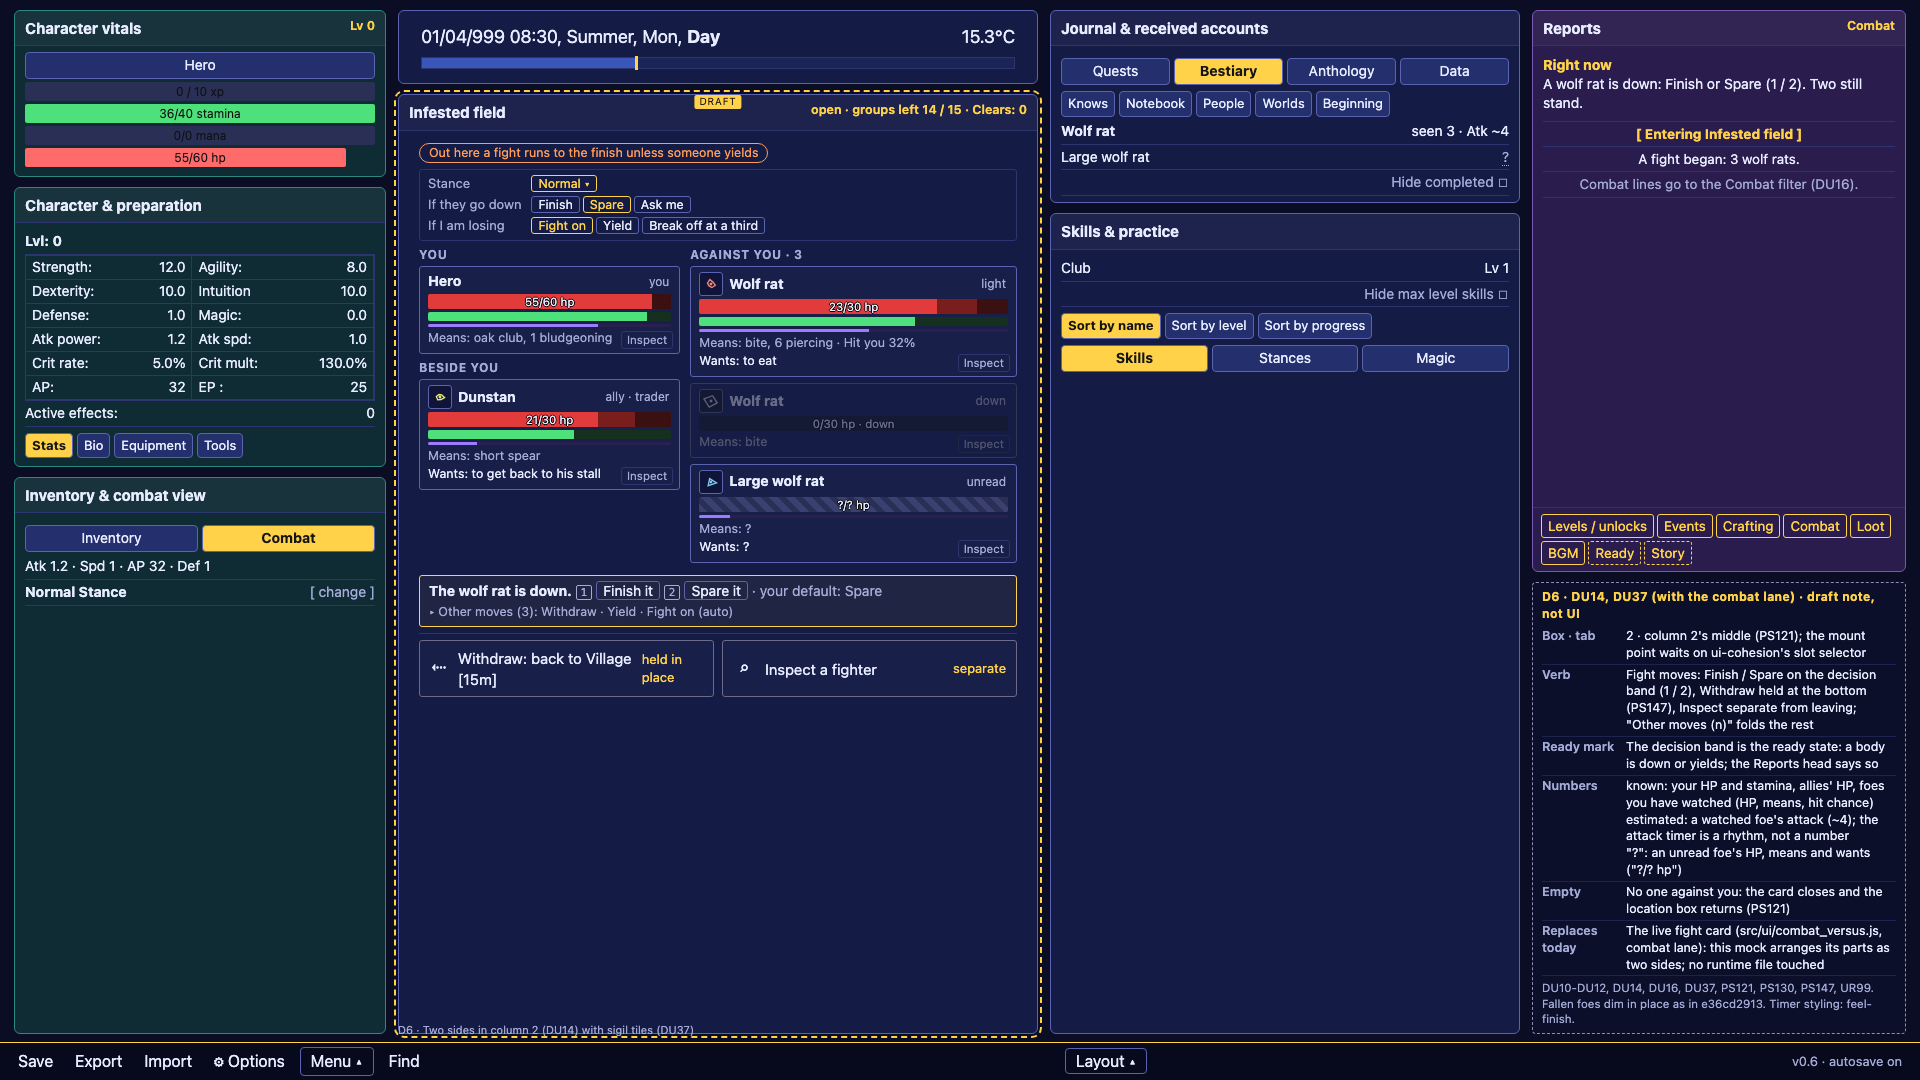
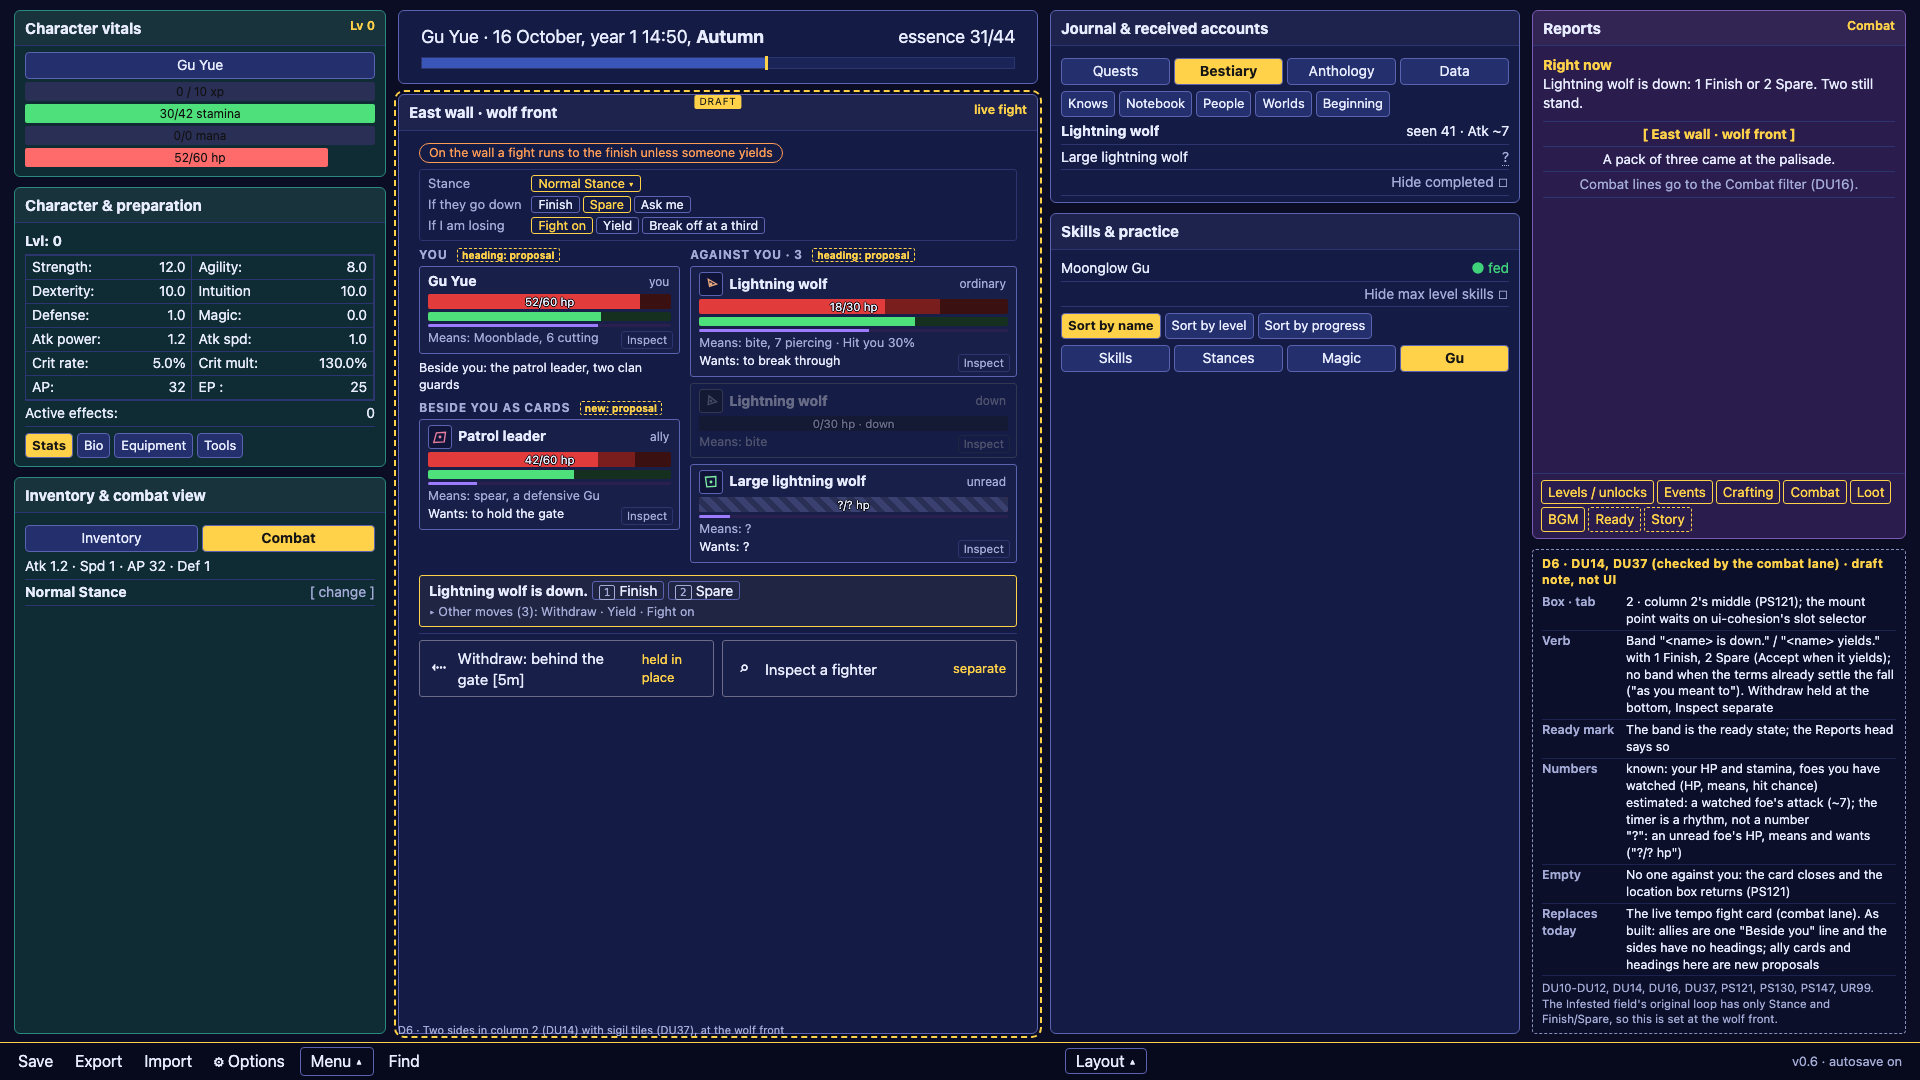
D6 matches the live fight card (combat lane review): set at the wolf front's tempo fight, band reads '<name> is down.' with 1 Finish / 2 Spare, Normal Stance, allies as the Beside you line, ally cards and side headings marked as proposals

diff --git a/prototypes/ui-drafts-2026-11-15/index.html b/prototypes/ui-drafts-2026-11-15/index.html
@@ -113,6 +113,8 @@ body.shot #pick, body.shot .note { display:none; }
 .inspect { position:absolute; right:6px; bottom:4px; font-size:11.5px; color:var(--muted); border:1px solid var(--quiet); border-radius:3px; padding:0 5px; }
 .band { border:1px solid var(--gold); border-radius:3px; padding:6px 9px; background:rgba(255,210,74,.06); font-size:14px; }
 .band .key { font:11px ui-monospace,monospace; border:1px solid var(--muted); border-radius:2px; padding:0 4px; margin-right:4px; color:var(--muted); }
+.newtag { font-style:normal; font-size:10px; color:var(--gold); border:1px dashed var(--gold); border-radius:2px; padding:0 4px; margin-left:6px; text-transform:none; letter-spacing:0; }
+.versus-allies { font-size:12.5px; margin:0 0 6px; }
 .held { display:flex; gap:8px; border-top:1px solid var(--quiet); padding-top:6px; margin-top:auto; } .held .verb { flex:1; margin:0; font-size:15px; } .c3 .head-run .bar { height:19px; }
 #dtitle { position:fixed; left:398px; bottom:42px; font-size:11px; color:var(--muted); }
 /* Compare view: the draft beside today's screen of the same life. */
@@ -254,25 +256,26 @@ const DRAFTS = {
       today: 'A description line and the patrol report; merit paid in four places (AT41)', codes: 'PS120, PS130, PS143, DSG11; waits on PS2 and PS3 (one wolf owner, one merit writer). Phases from ri_wolf_tide.js; counts are examples.'}),
   },
   d6: {
-    title: 'D6 · Two sides in column 2 (DU14) with sigil tiles (DU37)', today: 'ri-fang-yuan-wild-gu.png',
-    c1: C1({hp: '55/60 hp', st: '36/40 stamina', invTab: 'Combat', combat: row('Atk 1.2 · Spd 1 · AP 32 · Def 1') + row('<b>Normal Stance</b>', '<span class="m">[ change ]</span>')}),
-    c2: [VILLAGE_TIME('01/04/999 08:30, Summer, Mon, <b>Day</b>', '15.3°C', '36%'),
-      draft('Infested field', 'open · groups left 14 / 15 · Clears: 0', '<div class="fight2">' +
-        '<span class="stakes">Out here a fight runs to the finish unless someone yields</span>' +
-        h('div', 'approach2', '<span class="m">Stance</span><span><span class="act on">Normal ▾</span></span><span class="m">If they go down</span><span><span class="act">Finish</span><span class="act on">Spare</span><span class="act">Ask me</span></span><span class="m">If I am losing</span><span><span class="act on">Fight on</span><span class="act">Yield</span><span class="act">Break off at a third</span></span>') +
-        '<div class="versus"><section class="versus-side--you"><h5>You</h5>' + vcard({name: 'Hero', kind: 'you', hp: 92, hpT: '55/60 hp', st: 90, means: 'Means: oak club, 1 bludgeoning', glyph: false, timer: 70}) +
-          '<h5>Beside you</h5>' + vcard({name: 'Dunstan', kind: 'ally · trader', hp: 70, lost: 85, hpT: '21/30 hp', st: 60, means: 'Means: short spear', wants: 'to get back to his stall', timer: 20}) + '</section>' +
-        '<section><h5>Against you · 3</h5>' + vcard({name: 'Wolf rat', kind: 'light', hp: 77, lost: 90, hpT: '23/30 hp', st: 70, means: 'Means: bite, 6 piercing · Hit you 32%', wants: 'to eat', timer: 55}) +
-          vcard({name: 'Wolf rat ', kind: 'down', hp: 0, hpT: '0/30 hp · down', means: 'Means: bite', down: true}) +
-          vcard({name: 'Large wolf rat', kind: 'unread', hp: 100, hpT: '?/? hp', means: 'Means: ?', wants: '?', timer: 10}) + '</section></div>' +
-        h('div', 'band', '<b>The wolf rat is down.</b> <span class="key">1</span><span class="act">Finish it</span> <span class="key">2</span><span class="act">Spare it</span> <span class="m">· your default: Spare</span><div class="m" style="font-size:12.5px;margin-top:3px">▸ Other moves (3): Withdraw · Yield · Fight on (auto)</div>') +
-        '<div class="held">' + verb('⇠', 'Withdraw: back to Village [15m]', 'held in place') + verb('⌕', 'Inspect a fighter', 'separate') + '</div></div>', 'grow')].join(''),
-    c3: JOURNAL('Bestiary', row('<b>Wolf rat</b>', 'seen 3 · Atk ~4') + row('Large wolf rat', unk('?', 'Not watched fighting yet.'))) + SKILLS('Skills', [], row('Club', 'Lv 1')),
-    c4: REPORTS('<b class="g">Right now</b><br>A wolf rat is down: Finish or Spare (1 / 2). Two still stand.', ['[ Entering Infested field ]', 'A fight began: 3 wolf rats.', '<span class="m">Combat lines go to the Combat filter (DU16).</span>'], 'Combat') + spec({code: 'D6 · DU14, DU37 (with the combat lane)',
-      box: '2 · column 2\'s middle (PS121); the mount point waits on ui-cohesion\'s slot selector', verb: 'Fight moves: Finish / Spare on the decision band (1 / 2), Withdraw held at the bottom (PS147), Inspect separate from leaving; "Other moves (n)" folds the rest',
-      ready: 'The decision band is the ready state: a body is down or yields; the Reports head says so', known: 'your HP and stamina, allies\' HP, foes you have watched (HP, means, hit chance)',
-      est: 'a watched foe\'s attack (~4); the attack timer is a rhythm, not a number', unk: 'an unread foe\'s HP, means and wants ("?/? hp")', empty: 'No one against you: the card closes and the location box returns (PS121)',
-      today: 'The live fight card (src/ui/combat_versus.js, combat lane): this mock arranges its parts as two sides; no runtime file touched', codes: 'DU10-DU12, DU14, DU16, DU37, PS121, PS130, PS147, UR99. Fallen foes dim in place as in e36cd2913. Timer styling: feel-finish.'}),
+    title: 'D6 · Two sides in column 2 (DU14) with sigil tiles (DU37), at the wolf front', today: 'ri-fang-yuan-wild-gu.png',
+    c1: C1({name: 'Gu Yue', hp: '52/60 hp', st: '30/42 stamina', invTab: 'Combat', combat: row('Atk 1.2 · Spd 1 · AP 32 · Def 1') + row('<b>Normal Stance</b>', '<span class="m">[ change ]</span>')}),
+    c2: [VILLAGE_TIME('Gu Yue · 16 October, year 1 14:50, <b>Autumn</b>', 'essence 31/44', '58%'),
+      draft('East wall · wolf front', 'live fight', '<div class="fight2">' +
+        '<span class="stakes">On the wall a fight runs to the finish unless someone yields</span>' +
+        h('div', 'approach2', '<span class="m">Stance</span><span><span class="act on">Normal Stance ▾</span></span><span class="m">If they go down</span><span><span class="act">Finish</span><span class="act on">Spare</span><span class="act">Ask me</span></span><span class="m">If I am losing</span><span><span class="act on">Fight on</span><span class="act">Yield</span><span class="act">Break off at a third</span></span>') +
+        '<div class="versus"><section class="versus-side--you"><h5>You <i class="newtag">heading: proposal</i></h5>' + vcard({name: 'Gu Yue', kind: 'you', hp: 87, hpT: '52/60 hp', st: 71, means: 'Means: Moonblade, 6 cutting', glyph: false, timer: 70}) +
+          '<p class="versus-allies">Beside you: the patrol leader, two clan guards</p>' +
+          '<h5>Beside you as cards <i class="newtag">new: proposal</i></h5>' + vcard({name: 'Patrol leader', kind: 'ally', hp: 70, lost: 85, hpT: '42/60 hp', st: 60, means: 'Means: spear, a defensive Gu', wants: 'to hold the gate', timer: 20}) + '</section>' +
+        '<section class="versus-side--them"><h5>Against you · 3 <i class="newtag">heading: proposal</i></h5>' + vcard({name: 'Lightning wolf', kind: 'ordinary', hp: 60, lost: 78, hpT: '18/30 hp', st: 70, means: 'Means: bite, 7 piercing · Hit you 30%', wants: 'to break through', timer: 55}) +
+          vcard({name: 'Lightning wolf ', kind: 'down', hp: 0, hpT: '0/30 hp · down', means: 'Means: bite', down: true}) +
+          vcard({name: 'Large lightning wolf', kind: 'unread', hp: 100, hpT: '?/? hp', means: 'Means: ?', wants: '?', timer: 10}) + '</section></div>' +
+        h('div', 'band', '<b>Lightning wolf is down.</b> <span class="act"><span class="key">1</span>Finish</span> <span class="act"><span class="key">2</span>Spare</span><div class="m" style="font-size:12.5px;margin-top:3px">▸ Other moves (3): Withdraw · Yield · Fight on</div>') +
+        '<div class="held">' + verb('⇠', 'Withdraw: behind the gate [5m]', 'held in place') + verb('⌕', 'Inspect a fighter', 'separate') + '</div></div>', 'grow')].join(''),
+    c3: JOURNAL('Bestiary', row('<b>Lightning wolf</b>', 'seen 41 · Atk ~7') + row('Large lightning wolf', unk('?', 'Not watched fighting yet.'))) + SKILLS('Gu', ['Gu'], row('Moonglow Gu', '<span class="k ready">fed</span>')),
+    c4: REPORTS('<b class="g">Right now</b><br>Lightning wolf is down: 1 Finish or 2 Spare. Two still stand.', ['[ East wall · wolf front ]', 'A pack of three came at the palisade.', '<span class="m">Combat lines go to the Combat filter (DU16).</span>'], 'Combat') + spec({code: 'D6 · DU14, DU37 (checked by the combat lane)',
+      box: '2 · column 2\'s middle (PS121); the mount point waits on ui-cohesion\'s slot selector', verb: 'Band "&lt;name&gt; is down." / "&lt;name&gt; yields." with 1 Finish, 2 Spare (Accept when it yields); no band when the terms already settle the fall ("as you meant to"). Withdraw held at the bottom, Inspect separate',
+      ready: 'The band is the ready state; the Reports head says so', known: 'your HP and stamina, foes you have watched (HP, means, hit chance)',
+      est: 'a watched foe\'s attack (~7); the timer is a rhythm, not a number', unk: 'an unread foe\'s HP, means and wants ("?/? hp")', empty: 'No one against you: the card closes and the location box returns (PS121)',
+      today: 'The live tempo fight card (combat lane). As built: allies are one "Beside you" line and the sides have no headings; ally cards and headings here are new proposals', codes: 'DU10-DU12, DU14, DU16, DU37, PS121, PS130, PS147, UR99. The Infested field\'s original loop has only Stance and Finish/Spare, so this is set at the wolf front.'}),
   },
 };
 const P = new URLSearchParams(location.search), id = P.get('d') || 'd1', D = DRAFTS[id];

diff --git a/prototypes/ui-drafts-2026-11-15/README.md b/prototypes/ui-drafts-2026-11-15/README.md
@@ -17,7 +17,7 @@ Open `index.html?d=d1` to `d5` (keys 1 to 5). Add `&cmp` to show a draft beside 
 | D3 · capture-d3.png, compare-d3.jpg | SFC13 and SFC14 Harry: **Attend** verb for lessons and papers, exams in Journal · Quests, duel setup in Inventory & combat · Combat | `hp-exam-week` household day |
 | D4 · capture-d4.png, compare-d4.jpg | SFC15 and SFC16 Fang Yuan: Skills · **Gu** tab (aperture head, hunger per Gu), and the **Refine** bench replacing the actions box | `ri-fang-yuan-wild-gu` beginning panel |
 | D5 · capture-d5.png, compare-d5.jpg | SFC20 the wolf tide as a location-box line, **Patrol** targets, and one "Battle merit" ledger | `ri-fang-yuan-wild-gu` (no tide readout exists) |
-| D6 · capture-d6.png | DU14 and DU37, agreed with the combat lane: two sides in column 2's middle, laid out on their versus row (your side with "Beside you", one card per foe, fallen dimmed in place). Above the rows sit the stakes chip, the approach strip and the 1/2 decision band with "Other moves (n)". Withdraw is held at the bottom and Inspect is separate. A seeded SVG sigil sits by each name. No runtime file is touched, and the mount point stays open for ui-cohesion's slot selector | the live fight card (combat lane) |
+| D6 · capture-d6.png | DU14 and DU37, checked by the combat lane and set at the wolf front (a live tempo fight; the Infested field runs the original loop with only Stance and Finish/Spare). Ally cards and side headings are marked as new proposals. Two sides in column 2's middle, laid out on their versus row (your side with "Beside you", one card per foe, fallen dimmed in place). Above the rows sit the stakes chip, the approach strip and the 1/2 decision band with "Other moves (n)". Withdraw is held at the bottom and Inspect is separate. A seeded SVG sigil sits by each name. No runtime file is touched, and the mount point stays open for ui-cohesion's slot selector | the live fight card (combat lane) |
 
 Values come from the code where one exists:
 - Klein's pay and advance: `book_world_lotm_wage.js`.
